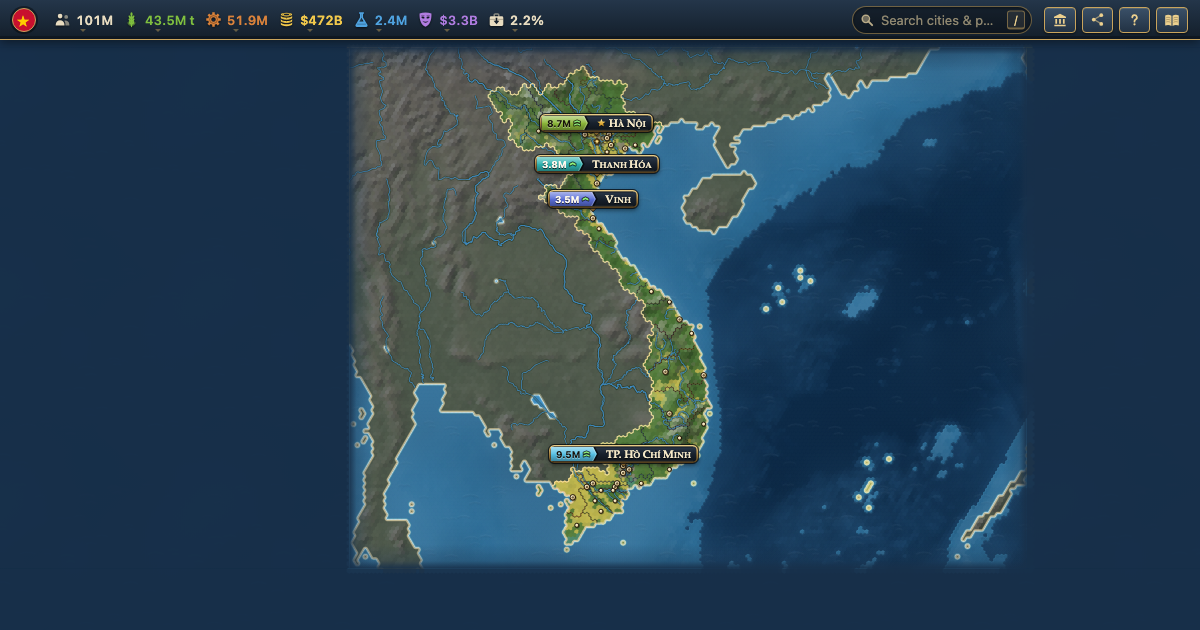
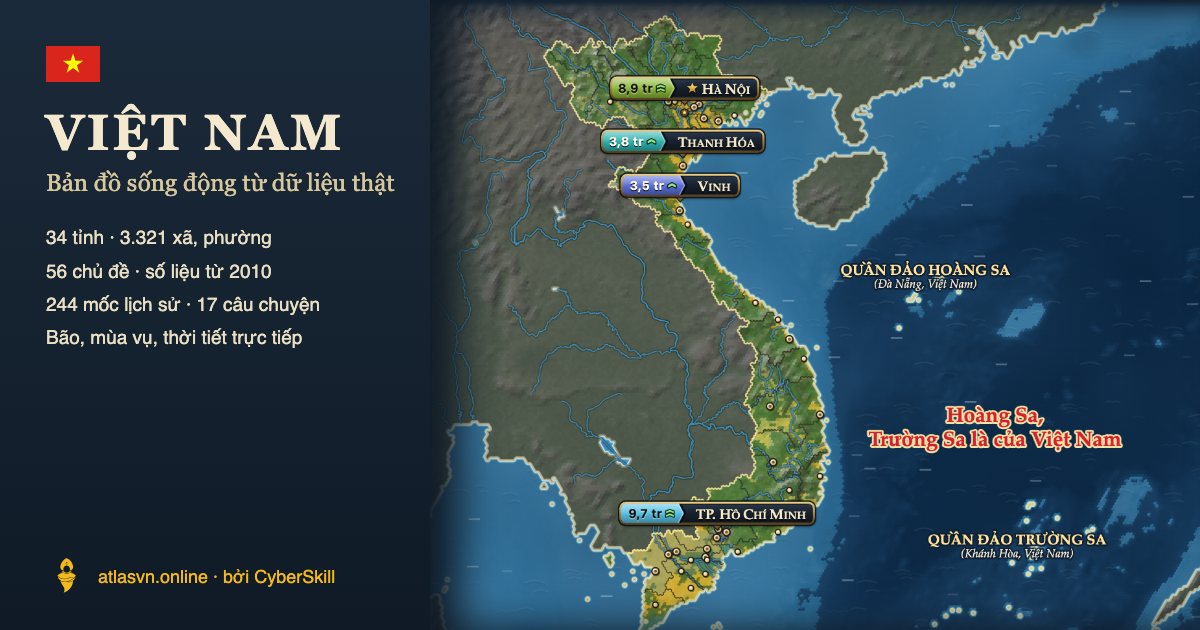
New link preview image (og-image) with the current map and CyberSkill credit

diff --git a/web/index.html b/web/index.html
@@ -21,7 +21,7 @@
   <meta property="og:image" content="https://atlasvn.online/og-image.png">
   <meta property="og:image:width" content="1200">
   <meta property="og:image:height" content="630">
-  <meta property="og:image:alt" content="Bản đồ ô lục giác của Việt Nam với biểu ngữ thành phố, theo phong cách game chiến thuật">
+  <meta property="og:image:alt" content="Atlas Việt Nam: bản đồ ô lục giác sống động của 34 tỉnh, 3.321 xã phường, dựng từ dữ liệu thật; thực hiện bởi CyberSkill">
   <meta name="twitter:card" content="summary_large_image">
   <meta name="twitter:title" content="Việt Nam trên bản đồ chiến thuật">
   <meta name="twitter:description" content="Việt Nam thật, vẽ như bản đồ game chiến thuật 4X, từ dữ liệu công khai.">
